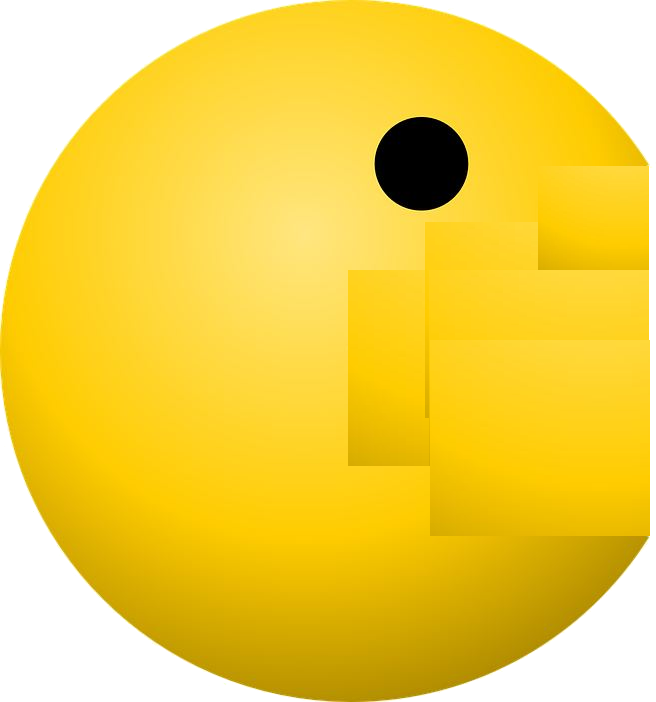
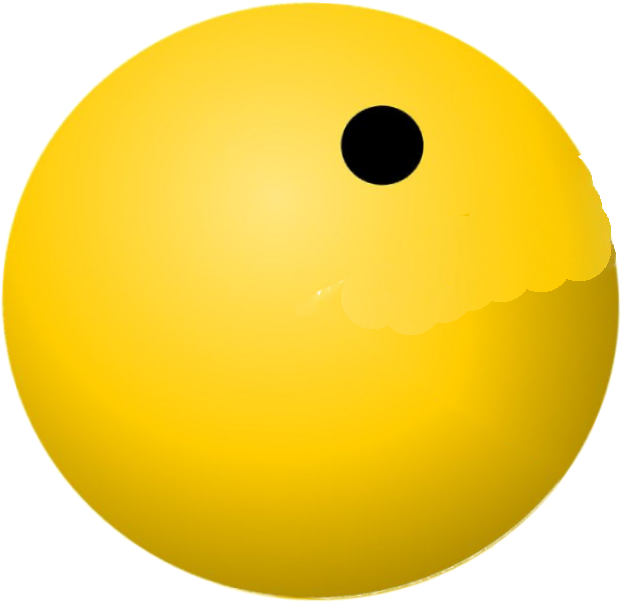
move on click

diff --git a/src/app/todos/todos.component.scss b/src/app/todos/todos.component.scss
@@ -8,7 +8,7 @@ ul{
     align-items: center;
     justify-content: center;
     flex-direction: column;
-    li{
+    .li{
         width: 600px;
         cursor: default;
         position: relative;
@@ -26,7 +26,9 @@ ul{
         background: rgba(0,0,0,.4);
         color: yellow;
         font-size: 31px;
-        transition: .3s all;
+        // animation-name: deleteOpacity;
+        // animation-delay: 1s;
+        // animation-duration: .1s;
         &:hover{
             background-color: rgba(102, 102, 102, 0.781);
         }
@@ -102,13 +104,47 @@ ul{
     width: 1000px;
     height: 1000px;
     background: url('../../assets/head.png') no-repeat;
-    left: -920px;
+    left: -950px;
     transform: scale(0.14); 
     img {
         width: 100%;
         height: auto;
     }
 }
+.startAnimationMove {
+    animation-name: movingRight;
+    animation-duration: 1.5s;
+}
 .hide {
     display: none;
+}
+
+@keyframes deleteOpacity {
+    100% {
+        opacity: 0;
+    }
+}
+
+@keyframes movingRight {
+    0% {
+        display: block;
+    }
+    15% {
+        transform: translateX(40%);
+    }
+    30% {
+        transform: translateX(60%);
+    }
+    45% {
+        transform: translateX(80%);
+    }
+    60% {
+        transform: translateX(100%);
+    }
+    85% {
+        transform: translateX(120%);
+    }
+    100% {
+        transform: translateX(140%);
+    }
 }

diff --git a/src/app/todos/todos.component.html b/src/app/todos/todos.component.html
@@ -2,8 +2,8 @@
     <div class="filter">
         <input type="text" placeholder="Filter by title..." [(ngModel)]='search'>
     </div>
-    <li *ngFor="let todo of todosService.todos | todosFilter:search let i = index">
-        <p class="animation-head hide"></p>
+    <li class="li" *ngFor="let todo of todosService.todos | todosFilter:search let i = index">
+        <p id="head" class="animation-head"></p>
         <span [class.done]="todo.completed">
             <img *ngIf="!todo.completed" src="assets/head.png" (click)="onChange(todo.id)" />
             <img *ngIf="todo.completed" src="assets/head2.png" (click)="onChange(todo.id)" />

diff --git a/src/app/shared/todos.service.ts b/src/app/shared/todos.service.ts
@@ -16,9 +16,13 @@ export class TodosService extends TodosHelper{
     this.todos[idx].completed = !this.todos[idx].completed;
   }
   removeTodo(id: number) {
-    this.todos = this.todos.filter(t => t.id !== id);
-    this.putTodos(this.todos);
-    this.playRemoveMusic();
+    document.getElementById('head')?.classList.remove('hide');
+    document.getElementById('head')?.classList.add('startAnimationMove');
+    setTimeout(() => {
+      this.todos = this.todos.filter(t => t.id !== id);
+      this.putTodos(this.todos);
+      this.playRemoveMusic();
+    }, 4000)
   }
   addTodo(todo: Todo) {
     this.todos.push(todo);
